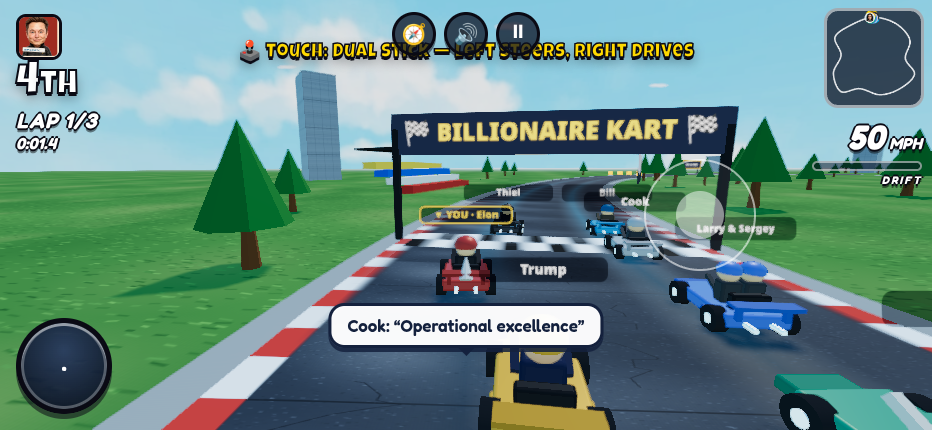
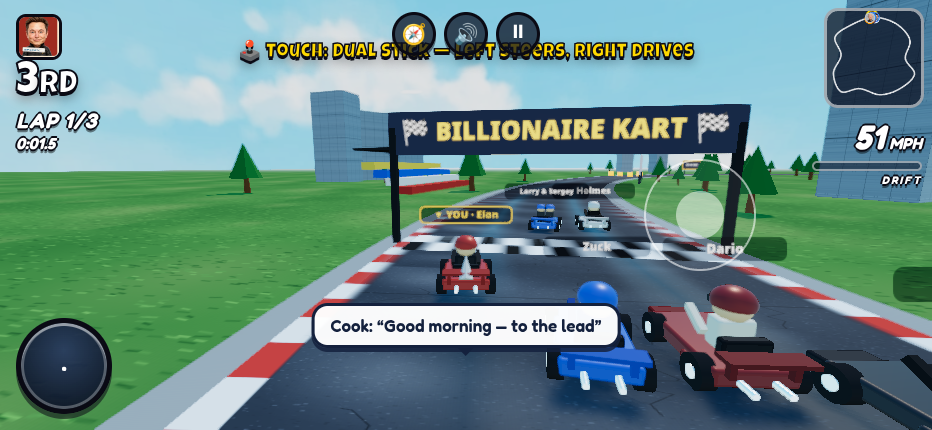
Drive feel: graduated offroad (shoulder 0.92, 0.55 floor, wall HALF_W+14) + item boxes 2.5s respawn with 0.6s ghost-in

diff --git a/game.js b/game.js
@@ -586,7 +586,7 @@ function buildItemBoxes() {
     const idx = Math.floor(f * N);
     for (const lat of [-7.5, -2.5, 2.5, 7.5]) {
       const s = samples[idx], n = normals[idx];
-      const mesh = new THREE.Mesh(geo, new THREE.MeshStandardMaterial({ map: tex, emissive: 0xcc8800, emissiveIntensity: 1.6, roughness: 0.4 })); // hot emissive so bloom picks the boxes up
+      const mesh = new THREE.Mesh(geo, new THREE.MeshStandardMaterial({ map: tex, emissive: 0xcc8800, emissiveIntensity: 1.6, roughness: 0.4, transparent: true })); // hot emissive so bloom picks the boxes up; transparent so the respawn ghost-in can fade the box back
       mesh.position.set(s.x + n.x * lat, 1.7, s.z + n.z * lat);
       scene.add(mesh);
       itemBoxes.push({ mesh, idx, active: true, respawnT: 0, phase: Math.random() * 6 });
@@ -690,7 +690,7 @@ function makeKart(racerIdx, isPlayer) {
     item: null, spinT: 0, shrinkT: 0, starT: 0, boostT: 0, driftCharge: 0, drifting: false, starTouchCd: 0,
     bailoutT: 0, ghostT: 0, hornT: 0, goldenT: 0, goldenCd: 0, inkT: 0,
     sputterT: 0, sputterClock: 0, nextSputter: rand(6, 14),
-    lapStart: 0, lastLapTime: null, bestLap: null, lapsDone: 0, offroad: false, offroadDeep: false,
+    lapStart: 0, lastLapTime: null, bestLap: null, lapsDone: 0, offroad: false, offroadDeep: false, offFactor: 1,
     ai: { lane: rand(-5, 5), laneT: rand(1, 3), itemT: rand(2, 6), skill: r.aiSkill ?? rand(0.97, 1.03), driftHeld: false },
   };
   karts.push(kart);
@@ -723,7 +723,7 @@ function placeGrid() {
   bananas.forEach(b => scene.remove(b.mesh)); bananas = [];
   projectiles.forEach(p => scene.remove(p.mesh)); projectiles = [];
   bombs.forEach(b => scene.remove(b.mesh)); bombs = [];
-  itemBoxes.forEach(b => { b.active = true; b.mesh.visible = true; b.respawnT = 0; });
+  itemBoxes.forEach(b => { b.active = true; b.mesh.visible = true; b.respawnT = 0; b.mesh.material.opacity = 1; b.mesh.scale.setScalar(1); });
   raceTime = 0; finishDelay = -1;
   prevPlayerCont = playerKart().continuous;
   updateItemSlot();
@@ -774,6 +774,21 @@ function updateParticles(dt) {
 /* ================= PHYSICS ================= */
 const pick = arr => arr[Math.floor(Math.random() * arr.length)];
 let simFairPlayer = false; // sim harness only: treat the autopilot "player" exactly like an AI kart
+// Graduated offroad model (drive-feel pass): the old model bit at HALF_W-0.6 with a flat
+// 0.72 cap + 0.38/s bleed, so the painted shoulder already crawled (Roger's 5 MPH screenshot).
+// The factor is now a smooth function of lateral distance: road 1.0 → shoulder ~0.92
+// (the rendered shoulder strip is HALF_W+2.6 wide) → eases to a 0.55 FLOOR by HALF_W+9
+// and holds there — deep rough is slow but always driveable, so recovery is always possible.
+// 0.55 matches the shortcut-gating factor: cutting deep still costs, it just never ends your race.
+function offroadFactor(lat) {
+  const a = Math.abs(lat);
+  if (a <= HALF_W) return 1;
+  if (a <= HALF_W + 1.5) return lerp(1, 0.92, (a - HALF_W) / 1.5);
+  if (a <= HALF_W + 3.0) return 0.92;
+  if (a >= HALF_W + 9.0) return 0.55;
+  const t = (a - HALF_W - 3.0) / 6.0;
+  return lerp(0.92, 0.55, t * t * (3 - 2 * t)); // smoothstep into the deep band — no step changes
+}
 function topSpeedOf(k) {
   let base = 40 + (k.racer.spd - 3) * 1.8;
   if (!k.isPlayer || simFairPlayer) {
@@ -786,7 +801,7 @@ function topSpeedOf(k) {
   if (k.ghostT > 0) base *= 1.07;
   if (k.inkT > 0) base *= 0.88;
   if (k.bailoutT > 0) base *= 1.30;
-  if (k.offroad) base *= k.offroadDeep ? 0.55 : 0.72; // playtest retune: grass hurts, deep rough hurts more — neither kills you
+  base *= k.offFactor; // graduated offroad (see offroadFactor) — was: offroad ? (deep ? 0.55 : 0.72), plus a 0.38/s bleed
   return base;
 }
 function updateProgress(k) {
@@ -795,10 +810,11 @@ function updateProgress(k) {
   if (delta > N / 2) delta -= N; if (delta < -N / 2) delta += N;
   k.continuous += delta; k.sampleIdx = newIdx;
   k.lateral = lateralAt(k.pos, newIdx);
-  k.offroad = Math.abs(k.lateral) > HALF_W - 0.6;
-  k.offroadDeep = Math.abs(k.lateral) > HALF_W + 2.4;
-  if (Math.abs(k.lateral) > HALF_W + 5) { // wall clamp
-    k.pos.addScaledVector(normals[newIdx], -(Math.sign(k.lateral) * (Math.abs(k.lateral) - (HALF_W + 5))));
+  k.offFactor = offroadFactor(k.lateral);
+  k.offroad = k.offFactor < 1;          // any penalty band (dust, cap settle rate)
+  k.offroadDeep = k.offFactor <= 0.75;  // deep band (thick dust)
+  if (Math.abs(k.lateral) > HALF_W + 14) { // distant safety net only (was HALF_W+5) — the graduated factor, not a wall, is what slows you out there
+    k.pos.addScaledVector(normals[newIdx], -(Math.sign(k.lateral) * (Math.abs(k.lateral) - (HALF_W + 14))));
     k.speed *= 0.86;
   }
   const completed = Math.floor(k.continuous / N);
@@ -884,7 +900,7 @@ function updateKart(k, input, dt) {
     const brakeVal = input.brake === true ? 1 : (input.brake || 0); // analog brake (touch sticks) or digital
     if (brakeVal > 0.05) { if (k.speed > 1) k.speed -= 34 * brakeVal * dt; else k.speed = Math.max(-11, k.speed - 14 * brakeVal * dt); }
     k.speed -= k.speed * 0.22 * dt;
-    if (k.offroad) k.speed -= k.speed * 0.38 * dt; // sustained grass bleeds speed — brief clips are cheap, corner-cutting is not (balance guard)
+    if (k.offFactor < 1) k.speed -= k.speed * (0.30 * (1 - k.offFactor) / 0.45) * dt; // sustained bleed scales with depth: ~0.05/s on the shoulder, 0.30/s at the deep floor (was a flat 0.38/s from HALF_W-0.6) — corner-cutting still bleeds, the shoulder doesn't
     if (k.speed > cap) k.speed = Math.max(cap, k.speed - (k.offroad ? 16 : 30) * dt); // gentle settle onto the grass cap instead of a wall of drag
     if (k.speed < -11) k.speed = -11;
 
@@ -909,6 +925,13 @@ function updateKart(k, input, dt) {
       if (k.isPlayer && Math.random() < 0.06) showBark(`${k.racer.name}: “${pick(k.racer.barks.boost)}”`);
     }
     if (k.starT > 0 && Math.random() < 0.5) spawnParticles(k.pos, { count: 2, colors: [0xffe066, 0xffffff], speed: 3, life: 0.5, up: 3, gravity: 0 });
+    if (k.offFactor < 1 && k.speed > 6) { // offroad dust: a light haze on the shoulder, thick plumes in the deep band; tint per track/band
+      const deep = k.offFactor <= 0.75;
+      if (Math.random() < (deep ? 0.85 : 0.4)) {
+        const cols = selectedTrack === 1 ? (deep ? [0xb5563c, 0x8f3b26] : [0xd98a63, 0xc47a52]) : (deep ? [0x8a7a4a, 0x6b8f3e] : [0x9a9a9a, 0x7d7d7d]);
+        spawnParticles(k.pos.clone().addScaledVector(forwardVec(k.heading), -1.6), { count: deep ? 2 : 1, colors: cols, speed: 1.8, life: 0.55, up: 1.6, gravity: 0.8 });
+      }
+    }
   }
   const gripRate = k.drifting ? 2.4 : 9;
   k.velHeading = lerpAngle(k.velHeading, k.heading, clamp(gripRate * dt, 0, 1));
@@ -1002,14 +1025,27 @@ function grantItem(k) {
     updateItemSlot(); A.pickup(); showToast(`${it.icon} ${it.name}!`);
   }
 }
+const BOX_RESPAWN = 2.5, BOX_GHOST = 0.6; // was a flat 4s dead time, then an untelegraphed pop-in — following players couldn't time a box a rival had just taken
 function updateItemBoxes(dt) {
   for (const b of itemBoxes) {
     b.mesh.rotation.y += dt * 1.9;
     b.mesh.position.y = 1.7 + Math.sin(elapsed * 2.2 + b.phase) * 0.25;
-    if (!b.active) { b.respawnT -= dt; if (b.respawnT <= 0) { b.active = true; b.mesh.visible = true; } continue; }
+    if (!b.active) {
+      b.respawnT -= dt;
+      if (b.respawnT <= 0) { // live again: full opacity, full size, pickable
+        b.active = true; b.mesh.visible = true;
+        b.mesh.material.opacity = 1; b.mesh.scale.setScalar(1);
+      } else if (b.respawnT <= BOX_GHOST) { // ghost-in: the final 0.6s fades/scales the box back as a visible-but-not-yet-active telegraph
+        const t = 1 - b.respawnT / BOX_GHOST;
+        b.mesh.visible = true;
+        b.mesh.material.opacity = 0.25 + 0.55 * t;
+        b.mesh.scale.setScalar(0.6 + 0.4 * t);
+      }
+      continue;
+    }
     for (const k of karts) {
       if (k.item || k.finished) continue;
-      if (k.pos.distanceToSquared(b.mesh.position) < 8.5) { b.active = false; b.mesh.visible = false; b.respawnT = 4; grantItem(k); break; }
+      if (k.pos.distanceToSquared(b.mesh.position) < 8.5) { b.active = false; b.mesh.visible = false; b.mesh.material.opacity = 1; b.mesh.scale.setScalar(1); b.respawnT = BOX_RESPAWN; grantItem(k); break; }
     }
   }
 }
